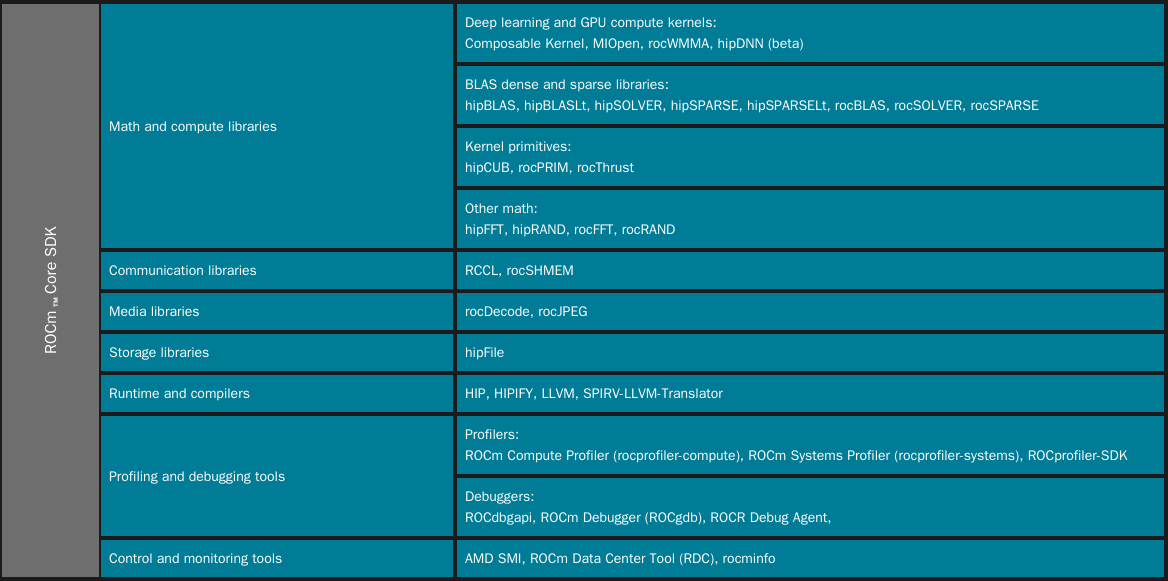
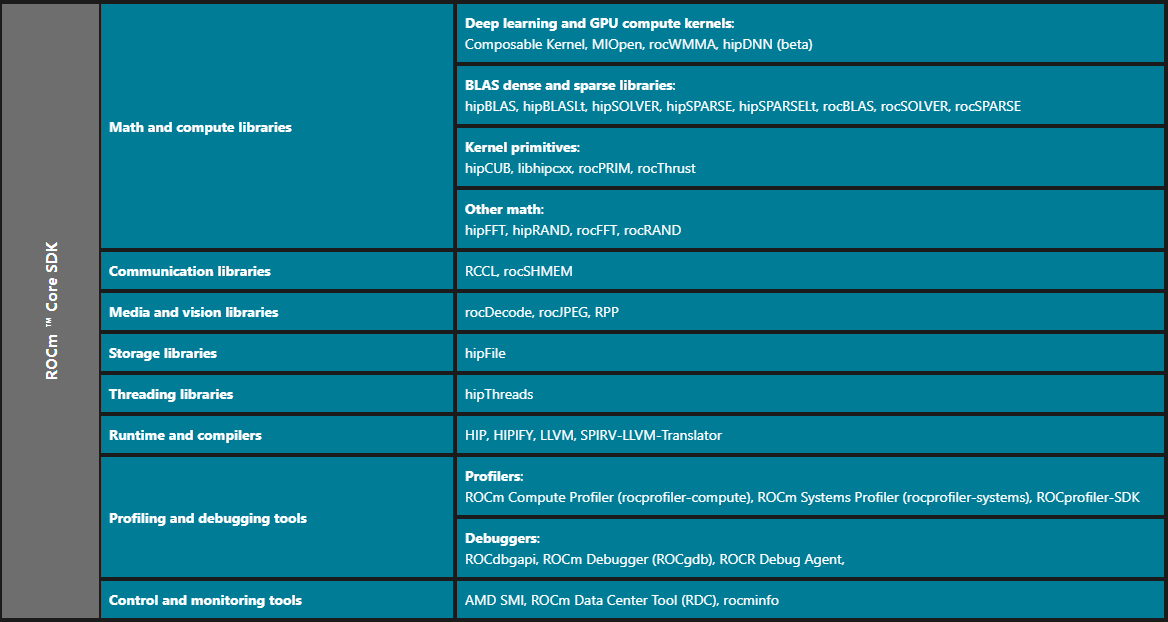
Update the What is ROCm architecture diagram for 10.2.0
Copy the 10.2.0 rocm-sdk-arch.html from ROCm/rocm-docs and regenerate the
PNG. The diagram adds libhipcxx, the RPP media and vision library, and a
threading libraries row for hipThreads.

diff --git a/docs/data/landing-page/rocm-sdk-arch.html b/docs/data/landing-page/rocm-sdk-arch.html
@@ -50,6 +50,7 @@
                 >
                   <strong>Kernel primitives</strong>:<br>
                   <a href="https://rocm.docs.amd.com/projects/hipCUB/en/latest" target="_blank">hipCUB</a>,
+                  <a href="https://rocm.docs.amd.com/projects/libhipcxx/en/latest/index.html" target="_blank">libhipcxx</a>,
                   <a href="https://rocm.docs.amd.com/projects/rocPRIM/en/latest" target="_blank">rocPRIM</a>,
                   <a href="https://rocm.docs.amd.com/projects/rocThrust/en/latest" target="_blank">rocThrust</a>
                 </div>
@@ -92,7 +93,7 @@
             <div
               class="rocm-docs-core-sdk-tile bg-amd-blue p-2 h-100 d-flex align-items-center small fw-bold"
             >
-              <a href="../components/media-libs.html" target="_blank">Media libraries</a>
+              <a href="../components/media-libs.html" target="_blank">Media and vision libraries</a>
             </div>
           </div>
           <div class="col-8">
@@ -102,7 +103,8 @@
                   class="rocm-docs-core-sdk-tile p-2 small h-100"
                 >
                   <a href="https://rocm.docs.amd.com/projects/rocDecode/en/latest" target="_blank">rocDecode</a>,
-                  <a href="https://rocm.docs.amd.com/projects/rocJPEG/en/latest" target="_blank">rocJPEG</a>
+                  <a href="https://rocm.docs.amd.com/projects/rocJPEG/en/latest" target="_blank">rocJPEG</a>,
+                  <a href="https://rocm.docs.amd.com/projects/rpp/en/latest" target="_blank">RPP</a>
                 </div>
               </div>
             </div>
@@ -122,6 +124,25 @@
                   class="rocm-docs-core-sdk-tile p-2 small h-100"
                 >
                   <a href="https://rocm.docs.amd.com/projects/hipFile/en/latest" target="_blank">hipFile</a>
+                </div>
+              </div>
+            </div>
+          </div>
+
+          <div class="col-4">
+            <div
+              class="rocm-docs-core-sdk-tile bg-amd-blue p-2 h-100 d-flex align-items-center small fw-bold"
+            >
+              <a href="../components/threading-libs.html" target="_blank">Threading libraries</a>
+            </div>
+          </div>
+          <div class="col-8">
+            <div class="row g-1">
+              <div class="col">
+                <div
+                  class="rocm-docs-core-sdk-tile p-2 small h-100"
+                >
+                  <a href="https://rocm.docs.amd.com/projects/hipThreads/en/latest" target="_blank">hipThreads</a>
                 </div>
               </div>
             </div>
